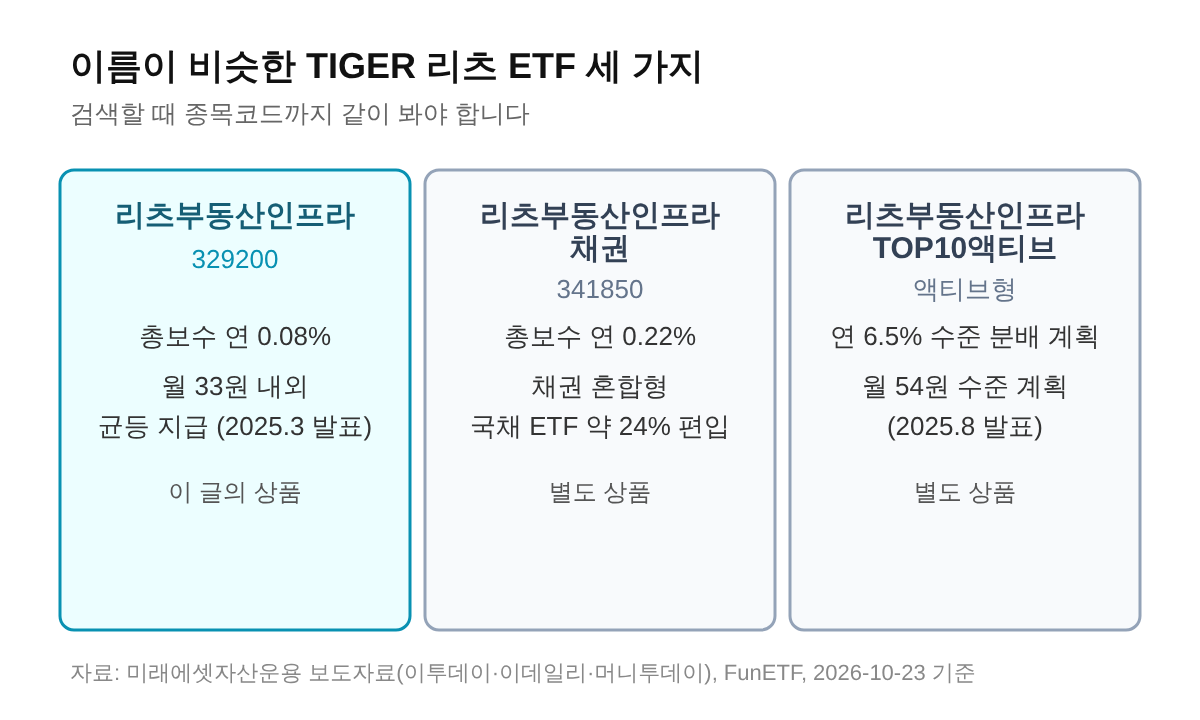
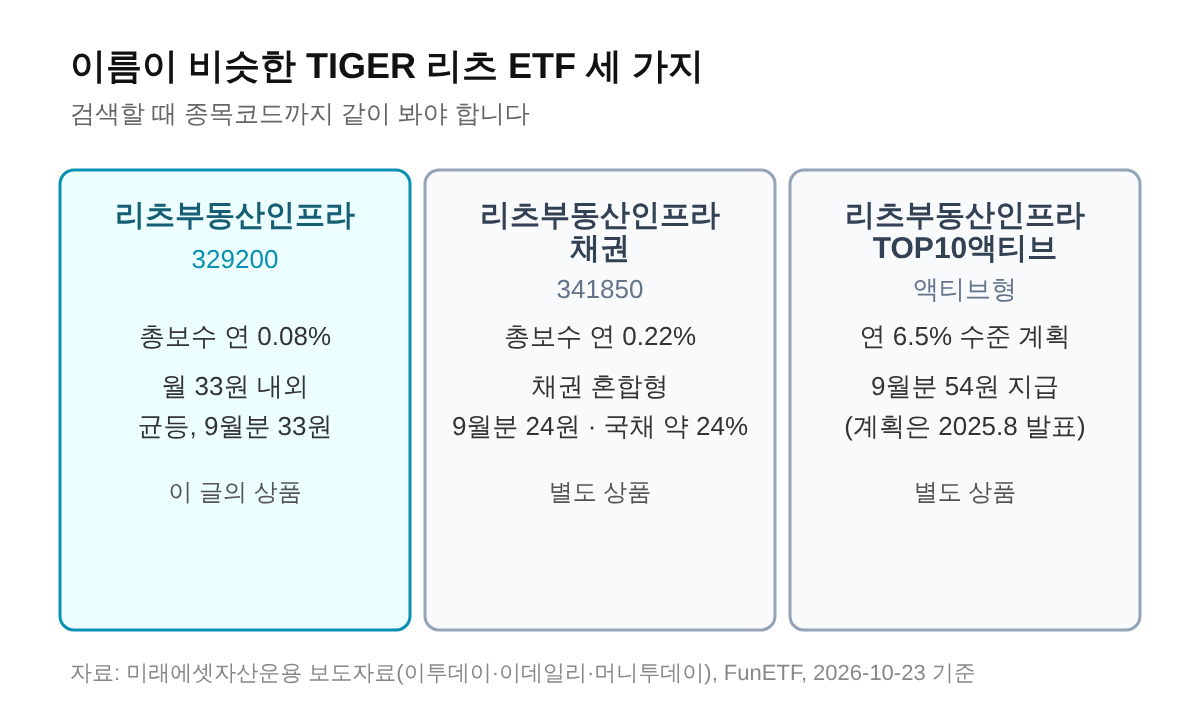
164편 gate_pass:true: 운용사 분배 내역(2026-10-26)으로 9월분 33원 확인, 본문·그림·큐 갱신
Claude-Session: https://claude.ai/code/session_01PU32FzUaoU5UagWaQhjY6o

diff --git a/stock_drafts/tiger-reits-infra-monthly-distribution.md b/stock_drafts/tiger-reits-infra-monthly-distribution.md
@@ -3,7 +3,7 @@ keyword: TIGER 리츠부동산인프라
 title: TIGER 리츠부동산인프라 월 분배금과 보수 2026
 slug: tiger-reits-infra-monthly-distribution
 keyword_class: human-assisted
-publish_effort: capture
+publish_effort: oneclick
 monthly_search_volume: 9950 (PC 2650 / 모바일 7300)
 gate1_pass: true (일반 주제 기준 월 500 이상 필요)
 serp_check: |
@@ -17,40 +17,23 @@ primary_source: |
   - 월 33원 내외 균등 지급, 2025-03-26 발표, 2022-11 월배당 전환, 순자산 6,249억원: 이투데이·이데일리·파이낸셜투데이·뉴스드림·포쓰저널·시장경제·열린뉴스통신·매일일보 등 8곳 이상 보도가 같은 내용으로 수렴.
   - 총보수 연 0.08%(2024-03 0.29%에서 인하): 스마트투데이 보도와 2026년 배당 정보 사이트 표기 일치. 341850 총보수 0.22%, 중장기국채 24.3%: FunETF·K-ETF 검색 요약. TOP10액티브 연 6.5%·월 54원 수준 계획(2025-08): 머니투데이·이데일리 일치.
   - 배당소득세 15.4%: 이 블로그 배당소득세 글(4편) 등 검증값 재사용(2026-09 기준).
-  - 한계: 2026년 월 분배금이 계속 33원인지는 운용사 공시로 확인하지 못했다. 집계 사이트 1곳이 2026년 1~7월 지급을 33원으로 표기하고 월 지급일이 일부 엇갈려(1/5 vs 2/3) 본문에 쓰지 않았다. 본문은 "2025년 발표 금액"으로만 서술.
-기준일: 2026년 10월 23일 기준
+  - 2026년 9월분(운용사 제공 'ETF 전체 분배 내역' 파일, 기준일 2026-10-26): 329200 기준일 9/30·지급일 10/2·주당 33원·분배율 0.81%, 341850 24원(0.52%), TOP10액티브 54원(0.57%, 기준일 9/15). 사용자가 미래에셋 사이트에서 직접 내려받아 제공한 원문.
+  - 한계: 9월 외 달의 금액은 균등 지급 발표(2025-03)로만 뒷받침. 본문은 "월 33원 균등을 12번 받는다고 가정"이라고 명시.
+기준일: 2026년 10월 26일 기준(운용사 분배 내역), 상품 설명은 10월 23일 조사
 refresh_due: 2026-11-06
 refresh_reason: "11월 분배금 확인 후 33원 유지 여부 반영, 상품 페이지 캡처로 2026년 지급 내역 대조"
 tags: TIGER 리츠부동산인프라, 리츠부동산인프라, 리츠 ETF, 월배당 ETF, 329200, 리츠 ETF 분배금, 리츠부동산인프라 총보수, 미래에셋 ETF, 월 분배금 33원, ETF 분배금 세금
-capture_guide: |
-  왜 필요한가: 월 분배금이 2025년 3월 발표대로 지금도 33원인지를 운용사 원문으로 확인하지 못했습니다(자동화 세션에서 모든 사이트가 막힘). 집계 사이트 1곳만 33원이라고 표시해 본문에는 "2025년 발표 금액"이라고만 썼습니다.
-  1순위: https://investments.miraeasset.com/tigeretf/ko/product/search/detail/index.do?ksdFund=KR7329200000 접속 → "분배금" 또는 "분배금 지급 현황" 탭을 열어 2026년 1월~10월 행(기준일·지급일·금액)이 모두 보이게 캡처.
-  캡처 후: 스크린샷을 대화에 올려주세요. 그러면 2026년 금액과 지급일을 본문에 넣고 gate_pass를 true로 바꿉니다.
-gate_pass: false
+gate_pass: true
 gate_pass_note: |
-  게이트1 10,050회, 게이트2 v4 통과, 게이트3 계산표·구분표·그림, 게이트4 2025년 발표 내용과 총보수는 다수 보도로 일치, 2026년 월 분배금(33원 유지 여부)은 운용사 원문 미확인이라 보류. 캡처 1장으로 해소됩니다.
-user_todo:
-  why: 월 분배금이 지금도 33원인지 운용사 화면으로 보지 못했습니다. 2025년 3월 발표 금액만 확인된 상태입니다.
-  steps:
-  - '미래에셋 상품 페이지 열기: https://investments.miraeasset.com/tigeretf/ko/product/search/detail/index.do?ksdFund=KR7329200000'
-  - '페이지에서 "분배금" 탭(또는 "분배금 지급 현황")을 눌러 표 열기'
-  - '2026년 1월부터 10월까지의 기준일·지급일·분배금 줄이 한 화면에 나오게 캡처(길면 2장)'
-  must_show:
-  - 2026년 월별 분배금 금액
-  - 기준일과 지급일 날짜
-  minutes: 3
-  device: 휴대폰 가능
-  if_skipped: 본문이 "2025년 3월 발표 금액 기준"이라는 단서를 단 채로 그대로 발행 가능하지만, 2026년 금액이 달라졌다면 표 숫자가 틀립니다. 캡처 없이 발행하려면 사람이 직접 판단해야 합니다.
+  게이트1 10,050회, 게이트2 v4 통과, 게이트3 계산표·구분표·그림, 게이트4 운용사 제공 분배 내역(2026-10-26)으로 9월분 33원 확인, 2025-03 균등 지급 발표와 총보수 0.08%는 다수 보도 일치. 9월 외 달은 균등 지급 가정으로 본문에 명시.
 self_check: |
-  [2026-10-23 gate_pass:false, 2026년 분배금 원문 캡처 대기]
-  후보 경위: 10/23 실측 TIGER 200 19,650(163편 채택) / ACE 미국S&P500 15,940(분배금 엇갈려 보류) / 삼성전자우 배당금 12,150(66편 갱신 후보) / TIGER 리츠부동산인프라 10,050(채택) / SCHD 배당금 9,010(다룸) / SOL 미국배당다우존스 8,200. 105편 국채금리 갱신은 10/22 마감값 3.840%/4.152%가 기사 1곳 요약뿐이라 2곳 일치 못 구해 보류.
+  [2026-10-27 gate_pass:true, 사용자가 올린 운용사 분배 내역으로 9월분 확인]
+  후보 경위: 10/23 실측 TIGER 리츠부동산인프라 10,050 채택. 105편 국채금리 갱신은 2곳 일치값을 못 구해 보류.
   YMYL: 매수·매도 권유, 목표가, 방향 예측 없음. 제목에 전망·추천 없음. 매수가는 가정이라고 명시.
-  카니벌라이제이션: 리츠 뜻(68편)·월배당 ETF(63편)은 개념과 구조, 이 글은 한 상품의 월 33원 계산과 보수·상품 구분. 내부 링크 6개(4·6·10·47·63·68편) 전부 published.
-  글 구조 유형: 계산형(첫 H2 바로 아래가 계산 박스). 직전 163 비교형, 162 개념형, 161 계산형과 연속 아님(161과 2편 간격).
-  첫 문장 유형: 정의형(직전 163 문제제기형, 162 대비형, 161 수치충격형, 160 절차형과 다름). 인트로 둘째 문장에 직접 답(연 396원, 세후 약 335원).
-  어투 모드: A 해설형(직전 163 B, 162 C와 다름). 꾸며낸 1인칭 경험 없음.
-  기관 안내 문장 링크 처리, 출처 목록 6개 전부 링크 처리. 본문에 내부 글 번호 노출 없음.
-  AI 티 점검: em대시 0개, 다만 0회, mark 3개, FAQ 6개(직전 163 4개, 162 5개와 다름), FAQ 헤딩 "월 분배 리츠 ETF를 두고 나오는 여섯 가지 질문"(신규), 요약박스 청록색(#ecfeff/#0891b2) 제목 "🧾 월 33원을 연으로 늘려 보면"(신규).
+  카니벌라이제이션: 리츠 뜻(68편)·월배당 ETF(63편)는 개념과 구조, 이 글은 한 상품의 월 33원 계산과 보수·상품 구분. 내부 링크 6개 전부 published.
+  글 구조 유형: 계산형(첫 H2 바로 아래가 계산 박스). 직전 163 비교형, 162 개념형, 161 계산형과 연속 아님.
+  첫 문장 유형: 정의형. 어투 모드: A 해설형. 꾸며낸 1인칭 경험 없음.
+  AI 티 점검: em대시 0개, 다만 0회, mark 3개, FAQ 6개, FAQ 헤딩 신규, 요약박스 청록색 신규.
 figure_plan: |
   2장. 1: 월 33원→연 396원→세금→세후 335원 계산 흐름도. 2: 이름이 비슷한 세 상품 구분 도식. 보수·세후 주수·분배율 표는 정확한 숫자를 읽어야 해서 그림으로 중복하지 않고 표로 둠.
 ---
@@ -89,15 +72,15 @@ figure_plan: |
   </ul>
 </div>
 
-<p>월 33원은 2025년 3월 미래에셋자산운용이 발표한 균등 지급 금액입니다. 같은 금액이 12번 나온다고 가정한 계산이고, 실제 연간 합계는 운용사 발표에 따라 달라질 수 있습니다.</p>
+<p>월 33원은 2025년 3월 미래에셋자산운용이 발표한 균등 지급 금액입니다. 같은 금액이 12번 나온다고 가정한 계산이고, 실제 연간 합계는 운용사 발표에 따라 달라질 수 있습니다. 2026년 9월분도 기준일 9월 30일, 지급일 10월 2일에 1주당 33원이었습니다(미래에셋자산운용 ETF 분배 내역, 2026년 10월 26일 기준).</p>
 
 <figure style="margin:24px 0;"><img src="https://raw.githubusercontent.com/leoleo0813/blog-automation/main/assets/figures/tiger-reits-infra-monthly-distribution-1.png" alt="TIGER 리츠부동산인프라 월 분배금 33원에 12를 곱해 연 396원, 배당소득세 약 61원을 빼면 세후 약 335원" style="max-width:100%;"><figcaption style="font-size:13px;color:#888;">자료: <a href="https://www.etoday.co.kr/news/view/2456023" target="_blank" rel="noopener">이투데이</a>, <a href="https://www.edaily.co.kr/News/Read?mediaCodeNo=257&amp;newsId=02542006642107256" target="_blank" rel="noopener">이데일리</a> 보도, 2026년 10월 23일 기준</figcaption></figure>
 
-<p>2026년 지급 내역은 집계 사이트 한 곳에서 월 33원으로 표시됩니다. 운용사 공시로 대조한 값은 아니라서 이 글에서는 "2025년 발표 금액"으로만 씁니다.</p>
+<p>운용사 분배 내역에 올라온 9월분 분배율은 0.81%입니다. 이 값은 한 달치이고, 연으로 환산한 분배율은 5번째 섹션에서 계산합니다.</p>
 
 <h2 id="sec-2" style="scroll-margin-top:72px;border-left:6px solid #0891b2;padding-left:12px;margin-top:36px;">세금 뗀 실제 입금액과 필요한 주수</h2>
 
-<p>세후 월 입금액은 1주당 약 28원이고, 100주를 가지면 한 달에 <mark>약 2,792원</mark>입니다. 월 33원에서 15.4%인 약 5원이 빠집니다.</p>
+<p>세후 월 입금액은 1주당 약 28원이고, 100주를 가지면 한 달에 약 2,792원입니다. 월 33원에서 15.4%인 약 5원이 빠집니다.</p>
 
 <table style="width:100%;border-collapse:collapse;margin:16px 0;">
   <thead><tr><th style="border:1px solid #ddd;padding:8px;background:#f0f0f0;">보유 주수</th><th style="border:1px solid #ddd;padding:8px;background:#f0f0f0;">월 세전</th><th style="border:1px solid #ddd;padding:8px;background:#f0f0f0;">월 세금 15.4%</th><th style="border:1px solid #ddd;padding:8px;background:#f0f0f0;">월 세후</th><th style="border:1px solid #ddd;padding:8px;background:#f0f0f0;">연 세후</th></tr></thead>
@@ -120,11 +103,11 @@ figure_plan: |
 
 <h2 id="sec-3" style="scroll-margin-top:72px;border-left:6px solid #0891b2;padding-left:12px;margin-top:36px;">이름이 비슷한 상품 구분과 총보수 비교</h2>
 
-<p>총보수는 TIGER 리츠부동산인프라(329200)가 <mark>연 0.08%</mark>, 이름이 비슷한 TIGER 리츠부동산인프라채권(341850)이 연 0.22%입니다. 두 상품은 구성이 달라 단순 비교 대상이 아닙니다.</p>
+<p>총보수는 TIGER 리츠부동산인프라(329200)가 연 0.08%, 이름이 비슷한 TIGER 리츠부동산인프라채권(341850)이 연 0.22%입니다. 두 상품은 구성이 달라 단순 비교 대상이 아닙니다.</p>
 
 <table style="width:100%;border-collapse:collapse;margin:16px 0;">
   <thead><tr><th style="border:1px solid #ddd;padding:8px;background:#f0f0f0;">구분</th><th style="border:1px solid #ddd;padding:8px;background:#f0f0f0;">리츠부동산인프라</th><th style="border:1px solid #ddd;padding:8px;background:#f0f0f0;">리츠부동산인프라채권</th><th style="border:1px solid #ddd;padding:8px;background:#f0f0f0;">리츠부동산인프라TOP10액티브</th></tr></thead>
-  <tbody><tr><td style="border:1px solid #ddd;padding:8px;">종목코드</td><td style="border:1px solid #ddd;padding:8px;">329200</td><td style="border:1px solid #ddd;padding:8px;">341850</td><td style="border:1px solid #ddd;padding:8px;">액티브형(별도 상품)</td></tr><tr><td style="border:1px solid #ddd;padding:8px;">총보수(연)</td><td style="border:1px solid #ddd;padding:8px;">0.08%</td><td style="border:1px solid #ddd;padding:8px;">0.22%</td><td style="border:1px solid #ddd;padding:8px;">이 글에서 다루지 않음</td></tr><tr><td style="border:1px solid #ddd;padding:8px;">분배 안내</td><td style="border:1px solid #ddd;padding:8px;">월 33원 내외 균등(2025.3 발표)</td><td style="border:1px solid #ddd;padding:8px;">분배 주기 자료에 명시 없음</td><td style="border:1px solid #ddd;padding:8px;">연 6.5% 수준, 월 54원 수준 계획(2025.8 발표)</td></tr><tr><td style="border:1px solid #ddd;padding:8px;">성격</td><td style="border:1px solid #ddd;padding:8px;">국내 상장 리츠·인프라 종목</td><td style="border:1px solid #ddd;padding:8px;">채권 혼합형(TIGER 중장기국채 24.3% 등)</td><td style="border:1px solid #ddd;padding:8px;">리츠·인프라 상위 10개 종목 액티브</td></tr></tbody>
+  <tbody><tr><td style="border:1px solid #ddd;padding:8px;">종목코드</td><td style="border:1px solid #ddd;padding:8px;">329200</td><td style="border:1px solid #ddd;padding:8px;">341850</td><td style="border:1px solid #ddd;padding:8px;">액티브형(별도 상품)</td></tr><tr><td style="border:1px solid #ddd;padding:8px;">총보수(연)</td><td style="border:1px solid #ddd;padding:8px;">0.08%</td><td style="border:1px solid #ddd;padding:8px;">0.22%</td><td style="border:1px solid #ddd;padding:8px;">이 글에서 다루지 않음</td></tr><tr><td style="border:1px solid #ddd;padding:8px;">분배 안내</td><td style="border:1px solid #ddd;padding:8px;">월 33원 내외 균등(2025.3 발표), 2026년 9월분 33원</td><td style="border:1px solid #ddd;padding:8px;">2026년 9월분 24원(기준일 9/30)</td><td style="border:1px solid #ddd;padding:8px;">연 6.5% 수준 계획(2025.8 발표), 2026년 9월분 54원(기준일 9/15)</td></tr><tr><td style="border:1px solid #ddd;padding:8px;">성격</td><td style="border:1px solid #ddd;padding:8px;">국내 상장 리츠·인프라 종목</td><td style="border:1px solid #ddd;padding:8px;">채권 혼합형(TIGER 중장기국채 24.3% 등)</td><td style="border:1px solid #ddd;padding:8px;">리츠·인프라 상위 10개 종목 액티브</td></tr></tbody>
 </table>
 
 <figure style="margin:24px 0;"><img src="https://raw.githubusercontent.com/leoleo0813/blog-automation/main/assets/figures/tiger-reits-infra-monthly-distribution-2.png" alt="이름이 비슷한 TIGER 리츠 ETF 세 가지. 329200은 총보수 0.08%에 월 33원 내외, 341850은 총보수 0.22% 채권 혼합형, TOP10액티브는 연 6.5% 수준 분배 계획" style="max-width:100%;"><figcaption style="font-size:13px;color:#888;">자료: 미래에셋자산운용 보도자료, <a href="https://www.funetf.co.kr/product/etf/view/KR7341850006" target="_blank" rel="noopener">FunETF</a>, 2026년 10월 23일 기준</figcaption></figure>
@@ -161,7 +144,7 @@ figure_plan: |
   <tbody><tr><td style="border:1px solid #ddd;padding:8px;">4,000원</td><td style="border:1px solid #ddd;padding:8px;">9.90%</td><td style="border:1px solid #ddd;padding:8px;">약 8.38%</td></tr><tr><td style="border:1px solid #ddd;padding:8px;">4,400원</td><td style="border:1px solid #ddd;padding:8px;">9.00%</td><td style="border:1px solid #ddd;padding:8px;">약 7.61%</td></tr><tr><td style="border:1px solid #ddd;padding:8px;">5,000원</td><td style="border:1px solid #ddd;padding:8px;">7.92%</td><td style="border:1px solid #ddd;padding:8px;">약 6.70%</td></tr></tbody>
 </table>
 
-<p>2025년 발표 당시 운용사는 연 9%대 분배율을 예상한다고 밝혔습니다. 이 숫자는 2025년 기준 설명이고, 지금 가격으로 계산한 분배율은 위 식에 현재가를 넣어 직접 구해야 합니다.</p>
+<p>2025년 발표 당시 운용사는 연 9%대 분배율을 예상한다고 밝혔습니다. 운용사 표기 2026년 9월분 분배율 0.81%를 12개월로 단순 환산하면 약 9.7%입니다. 이 숫자는 2025년 기준 설명이고, 지금 가격으로 계산한 분배율은 위 식에 현재가를 넣어 직접 구해야 합니다.</p>
 
 <p>분배율은 과거와 현재의 분배금을 가격에 나눈 값이라서 앞으로의 수익을 말해 주지 않습니다. 배당수익률 계산의 일반 원리는 <a href="https://sensitiveboss3.tistory.com/entry/dividend-yield-calculation" target="_blank" rel="noopener">배당수익률 계산 글</a>에 있습니다.</p>
 
@@ -183,7 +166,7 @@ figure_plan: |
 
 <details style="border:1px solid #ddd;border-radius:8px;padding:12px 16px;margin:10px 0;">
   <summary style="font-weight:bold;cursor:pointer;">월 분배금이 정말 33원으로 고정인가요</summary>
-  <p style="margin:10px 0 0 0;">2025년 3월 미래에셋자산운용 발표는 "월 33원 내외"로 매월 같은 금액을 지급한다는 내용이었습니다. "내외"라는 표현이라 해마다 다시 정해질 수 있습니다. 2026년 지급액은 운용사 상품 페이지의 분배금 지급 현황에서 같은 금액인지 대조하는 것이 가장 정확합니다.</p>
+  <p style="margin:10px 0 0 0;">2025년 3월 미래에셋자산운용 발표는 "월 33원 내외"로 매월 같은 금액을 지급한다는 내용이었습니다. "내외"라는 표현이라 해마다 다시 정해질 수 있습니다. 2026년 9월분은 기준일 9월 30일, 지급일 10월 2일에 33원으로 운용사 분배 내역에 올라 있습니다. 다른 달은 운용사 상품 페이지의 분배금 지급 현황에서 볼 수 있습니다.</p>
 </details>
 <details style="border:1px solid #ddd;border-radius:8px;padding:12px 16px;margin:10px 0;">
   <summary style="font-weight:bold;cursor:pointer;">1주당 396원이면 연 분배율은 몇 퍼센트인가요</summary>
@@ -256,7 +239,7 @@ figure_plan: |
       "name": "월 분배금이 정말 33원으로 고정인가요",
       "acceptedAnswer": {
         "@type": "Answer",
-        "text": "2025년 3월 미래에셋자산운용 발표는 \"월 33원 내외\"로 매월 같은 금액을 지급한다는 내용이었습니다. \"내외\"라는 표현이라 해마다 다시 정해질 수 있습니다. 2026년 지급액은 운용사 상품 페이지의 분배금 지급 현황에서 같은 금액인지 대조하는 것이 가장 정확합니다."
+        "text": "2025년 3월 미래에셋자산운용 발표는 \"월 33원 내외\"로 매월 같은 금액을 지급한다는 내용이었습니다. \"내외\"라는 표현이라 해마다 다시 정해질 수 있습니다. 2026년 9월분은 기준일 9월 30일, 지급일 10월 2일에 33원으로 운용사 분배 내역에 올라 있습니다. 다른 달은 운용사 상품 페이지의 분배금 지급 현황에서 볼 수 있습니다."
       }
     },
     {

diff --git a/사용자_할일.md b/사용자_할일.md
@@ -1,6 +1,6 @@
 # 사용자 할 일
 
-마지막 갱신: 2026-10-26 · 보류 6편 · 예상 합계 약 41분
+마지막 갱신: 2026-10-27 · 보류 5편 · 예상 합계 약 38분
 
 **보내는 법(공통):** 캡처한 사진을 Claude 대화창에 올리고 "N편 자료"라고만 적어 주세요.
 사진을 받으면 본문을 고치고 보류를 풀어 드립니다. 위에서부터(검색량 큰 순) 하면 효과가 큽니다.
@@ -61,26 +61,6 @@
 ---
 
 # 2. 발행 보류 글에 필요한 자료
-
-## [ ] 164편 · TIGER 리츠부동산인프라 월 분배금과 보수 2026
-월 검색량 9,950 · 약 3분 · 휴대폰 가능
-
-**왜 막혔나:** 월 분배금이 지금도 33원인지 운용사 화면으로 보지 못했습니다. 2025년 3월 발표 금액만 확인된 상태입니다.
-
-**할 일**
-1. 미래에셋 상품 페이지 열기: https://investments.miraeasset.com/tigeretf/ko/product/search/detail/index.do?ksdFund=KR7329200000
-2. 페이지에서 "분배금" 탭(또는 "분배금 지급 현황")을 눌러 표 열기
-3. 2026년 1월부터 10월까지의 기준일·지급일·분배금 줄이 한 화면에 나오게 캡처(길면 2장)
-
-**캡처에 꼭 보여야 할 것**
-- 2026년 월별 분배금 금액
-- 기준일과 지급일 날짜
-
-**안 하면:** 본문이 "2025년 3월 발표 금액 기준"이라는 단서를 단 채로 그대로 발행 가능하지만, 2026년 금액이 달라졌다면 표 숫자가 틀립니다. 캡처 없이 발행하려면 사람이 직접 판단해야 합니다.
-
-보낼 때: "164편 자료"
-
----
 
 ## [ ] 134편 · 환전 우대율 계산법과 증권사별 차이
 월 검색량 3,490 · 약 5분 · 휴대폰 가능
